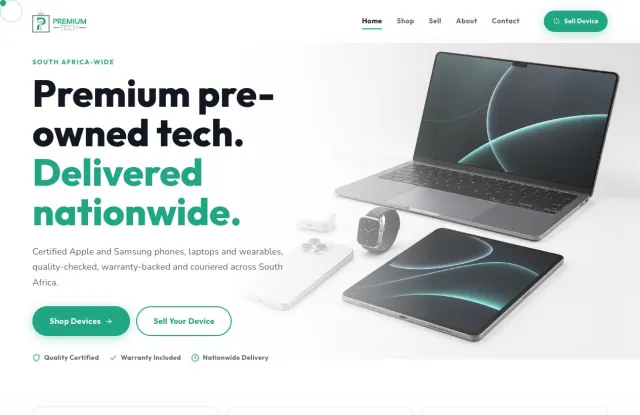
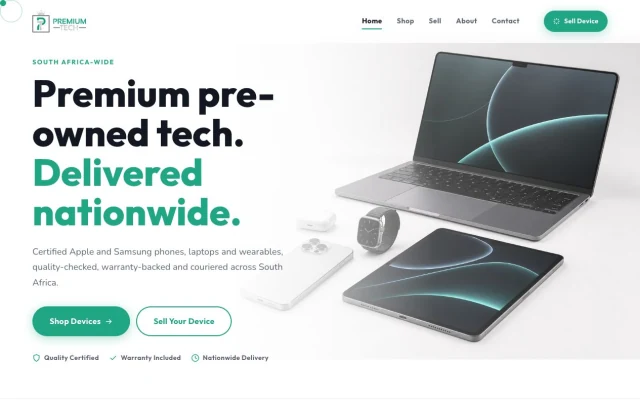
Fix work preview image framing

diff --git a/index.html b/index.html
@@ -34,7 +34,7 @@
 <link rel="alternate" type="text/plain" href="https://www.centraldomain.co.za/llms.txt" title="Central Domain AI summary" />
 <link rel="preload" as="image" href="bk.webp" type="image/webp" fetchpriority="high" />
 
-<link rel="stylesheet" href="css/main.css?v=20260619-report1" />
+<link rel="stylesheet" href="css/main.css?v=20260619-workfix1" />
 
 <!-- Google Analytics GA4 -->
 <script src="js/analytics.js?v=20260608-perf1" defer></script>
@@ -476,7 +476,7 @@
     <div class="work-grid" aria-label="Selected client websites">
       <article class="work-card work-card--featured reveal" data-reveal>
         <div class="work-card__visual">
-          <img src="assets/work/westfield-site-640.webp" alt="Westfield Contractors website homepage preview" width="640" height="415" loading="lazy" decoding="async" />
+          <img src="assets/work/westfield-site-640.webp" alt="Westfield Contractors website homepage preview" width="640" height="400" loading="lazy" decoding="async" />
         </div>
         <div class="work-card__meta">
           <p class="work-card__type">Construction</p>
@@ -501,7 +501,7 @@
 
       <article class="work-card reveal" data-reveal data-delay="80">
         <div class="work-card__visual">
-          <img src="assets/work/shadrach-site-640.webp" alt="LL Shadrach Attorneys website homepage preview" width="640" height="415" loading="lazy" decoding="async" />
+          <img src="assets/work/shadrach-site-640.webp" alt="LL Shadrach Attorneys website homepage preview" width="640" height="400" loading="lazy" decoding="async" />
         </div>
         <div class="work-card__meta">
           <p class="work-card__type">Legal</p>
@@ -521,7 +521,7 @@
 
       <article class="work-card reveal" data-reveal data-delay="160">
         <div class="work-card__visual">
-          <img src="assets/work/premiumtech-site-640.webp" alt="Premium Tech website homepage preview" width="640" height="415" loading="lazy" decoding="async" />
+          <img src="assets/work/premiumtech-site-640.webp" alt="Premium Tech website homepage preview" width="640" height="400" loading="lazy" decoding="async" />
         </div>
         <div class="work-card__meta">
           <p class="work-card__type">Retail</p>

diff --git a/services/ai-automations.html b/services/ai-automations.html
@@ -27,7 +27,7 @@
 <meta name="twitter:image" content="https://www.centraldomain.co.za/assets/Logo%20-%20White.png" />
 <link rel="icon" type="image/png" href="../assets/favicon.png?v=20260619-form1" />
 <link rel="apple-touch-icon" href="../assets/apple-touch-icon.png?v=20260619-form1" />
-<link rel="stylesheet" href="../css/main.css?v=20260619-report1" />
+<link rel="stylesheet" href="../css/main.css?v=20260619-workfix1" />
 <script type="application/ld+json">
 {
   "@context": "https://schema.org",

diff --git a/services/branding-and-design.html b/services/branding-and-design.html
@@ -27,7 +27,7 @@
 <meta name="twitter:image" content="https://www.centraldomain.co.za/assets/Logo%20-%20White.png" />
 <link rel="icon" type="image/png" href="../assets/favicon.png?v=20260619-form1" />
 <link rel="apple-touch-icon" href="../assets/apple-touch-icon.png?v=20260619-form1" />
-<link rel="stylesheet" href="../css/main.css?v=20260619-report1" />
+<link rel="stylesheet" href="../css/main.css?v=20260619-workfix1" />
 <script type="application/ld+json">
 {
   "@context": "https://schema.org",

diff --git a/services/custom-web-development.html b/services/custom-web-development.html
@@ -27,7 +27,7 @@
 <meta name="twitter:image" content="https://www.centraldomain.co.za/assets/Logo%20-%20White.png" />
 <link rel="icon" type="image/png" href="../assets/favicon.png?v=20260619-form1" />
 <link rel="apple-touch-icon" href="../assets/apple-touch-icon.png?v=20260619-form1" />
-<link rel="stylesheet" href="../css/main.css?v=20260619-report1" />
+<link rel="stylesheet" href="../css/main.css?v=20260619-workfix1" />
 <script type="application/ld+json">
 {
   "@context": "https://schema.org",

diff --git a/services/email-and-hosting.html b/services/email-and-hosting.html
@@ -27,7 +27,7 @@
 <meta name="twitter:image" content="https://www.centraldomain.co.za/assets/Logo%20-%20White.png" />
 <link rel="icon" type="image/png" href="../assets/favicon.png?v=20260619-form1" />
 <link rel="apple-touch-icon" href="../assets/apple-touch-icon.png?v=20260619-form1" />
-<link rel="stylesheet" href="../css/main.css?v=20260619-report1" />
+<link rel="stylesheet" href="../css/main.css?v=20260619-workfix1" />
 <script type="application/ld+json">
 {
   "@context": "https://schema.org",

diff --git a/services/remote-desktop-support.html b/services/remote-desktop-support.html
@@ -27,7 +27,7 @@
 <meta name="twitter:image" content="https://www.centraldomain.co.za/assets/Logo%20-%20White.png" />
 <link rel="icon" type="image/png" href="../assets/favicon.png?v=20260619-form1" />
 <link rel="apple-touch-icon" href="../assets/apple-touch-icon.png?v=20260619-form1" />
-<link rel="stylesheet" href="../css/main.css?v=20260619-report1" />
+<link rel="stylesheet" href="../css/main.css?v=20260619-workfix1" />
 <script type="application/ld+json">
 {
   "@context": "https://schema.org",

diff --git a/services/seo-services.html b/services/seo-services.html
@@ -27,7 +27,7 @@
 <meta name="twitter:image" content="https://www.centraldomain.co.za/assets/Logo%20-%20White.png" />
 <link rel="icon" type="image/png" href="../assets/favicon.png?v=20260619-form1" />
 <link rel="apple-touch-icon" href="../assets/apple-touch-icon.png?v=20260619-form1" />
-<link rel="stylesheet" href="../css/main.css?v=20260619-report1" />
+<link rel="stylesheet" href="../css/main.css?v=20260619-workfix1" />
 <script type="application/ld+json">
 {
   "@context": "https://schema.org",

diff --git a/services/social-media-management.html b/services/social-media-management.html
@@ -27,7 +27,7 @@
 <meta name="twitter:image" content="https://www.centraldomain.co.za/assets/Logo%20-%20White.png" />
 <link rel="icon" type="image/png" href="../assets/favicon.png?v=20260619-form1" />
 <link rel="apple-touch-icon" href="../assets/apple-touch-icon.png?v=20260619-form1" />
-<link rel="stylesheet" href="../css/main.css?v=20260619-report1" />
+<link rel="stylesheet" href="../css/main.css?v=20260619-workfix1" />
 <script type="application/ld+json">
 {
   "@context": "https://schema.org",

diff --git a/css/main.css b/css/main.css
@@ -1005,7 +1005,7 @@ main > section:not(.hero):not(.service-hero) > *{
 .work-card__visual{
   position: relative;
   min-width: 0;
-  aspect-ratio: 640 / 415;
+  aspect-ratio: 16 / 10;
   overflow: hidden;
   border: 1px solid rgba(218,236,255,.16);
   border-radius: var(--radius);
@@ -1025,7 +1025,6 @@ main > section:not(.hero):not(.service-hero) > *{
   height: 100%;
   object-fit: cover;
   object-position: top center;
-  transform: scale(1.01);
 }
 .work-card__meta{
   min-height: 52px;

diff --git a/404.html b/404.html
@@ -10,7 +10,7 @@
 <meta name="robots" content="noindex,nofollow" />
 <link rel="icon" type="image/png" href="/assets/favicon.png?v=20260619-form1" />
 <link rel="apple-touch-icon" href="/assets/apple-touch-icon.png?v=20260619-form1" />
-<link rel="stylesheet" href="/css/main.css?v=20260619-report1" />
+<link rel="stylesheet" href="/css/main.css?v=20260619-workfix1" />
 <!-- Google Analytics GA4 -->
 <script src="/js/analytics.js?v=20260608-perf1" defer></script>
 </head>
